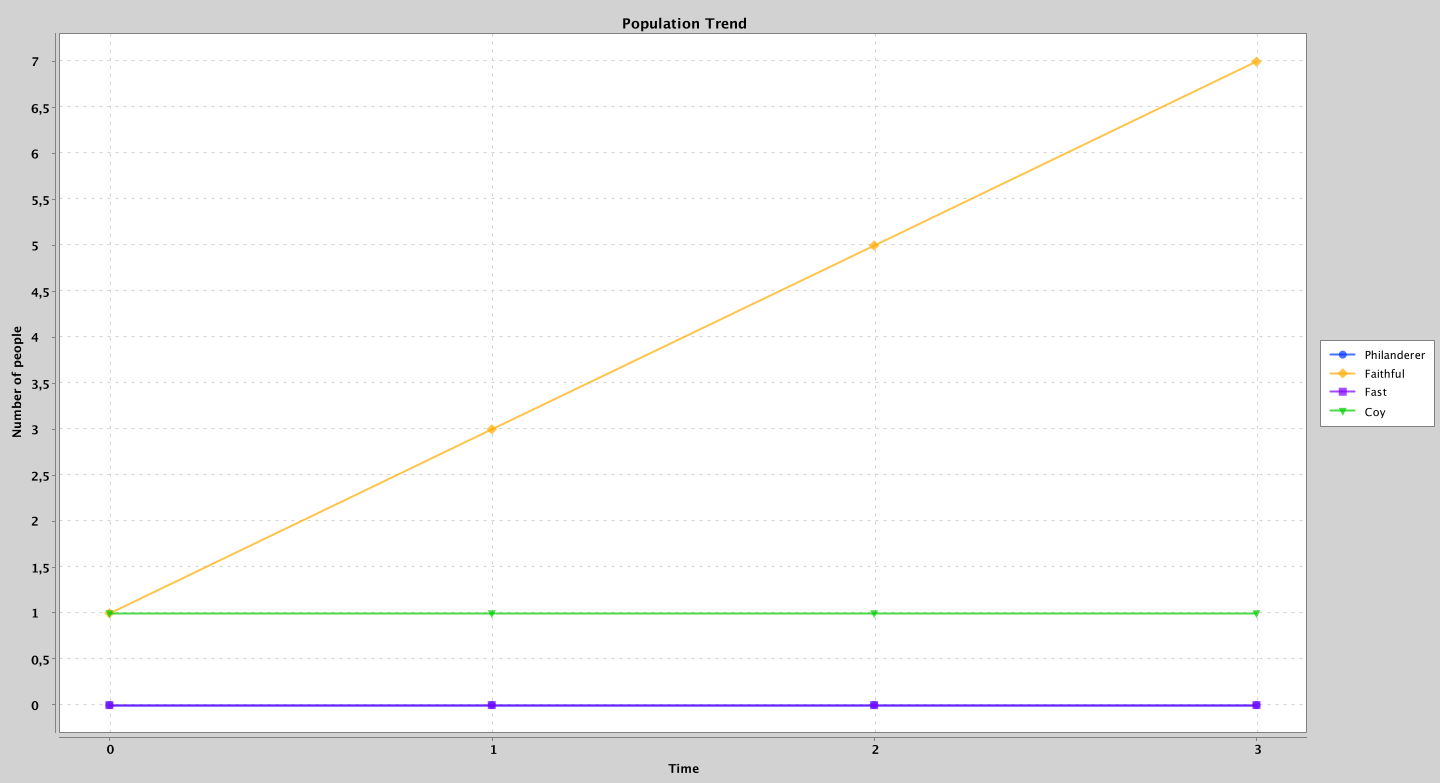
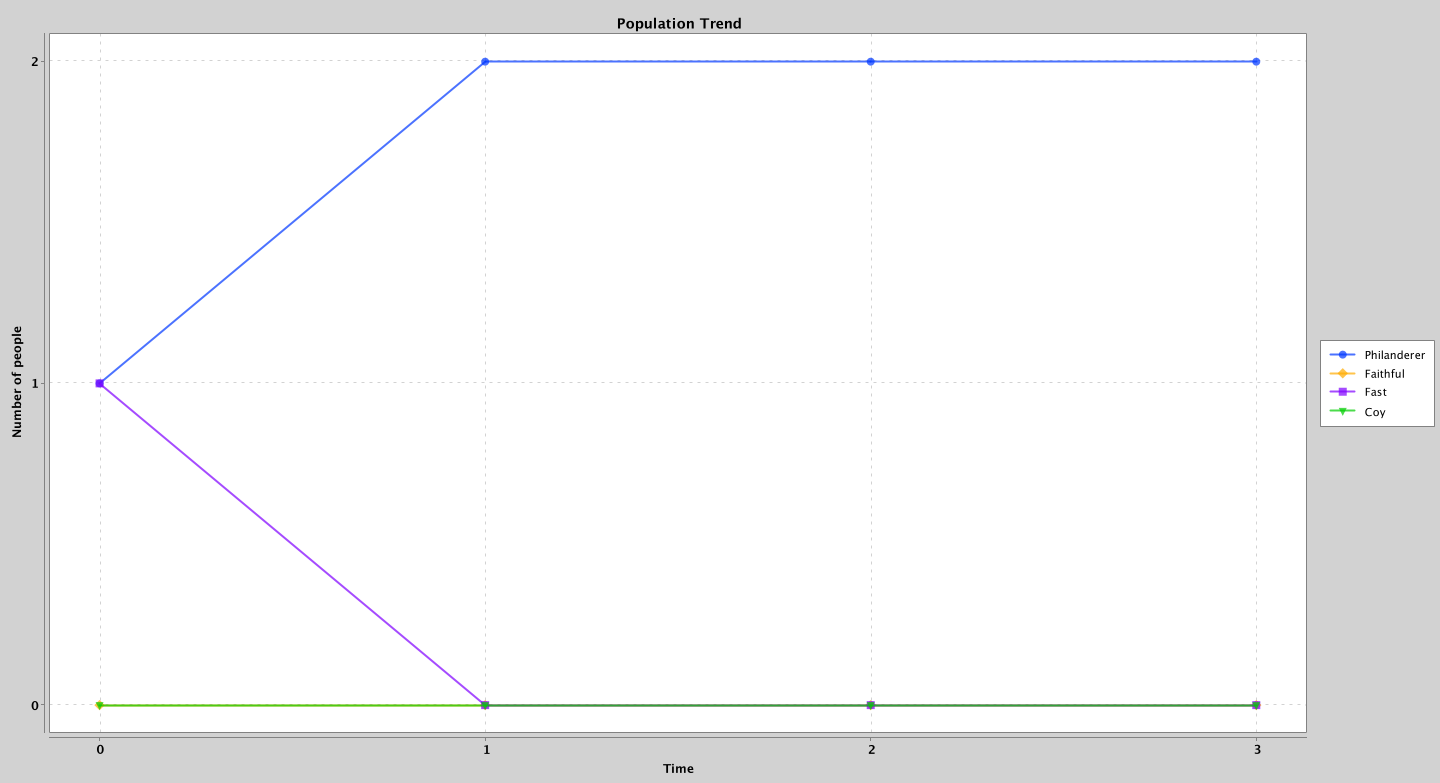
ho tolto il metodo life perchè il return funziona pure con il run

diff --git a/src/Female.java b/src/Female.java
@@ -6,11 +6,6 @@ public class Female extends Individual{
 
     @Override
     public synchronized void run() {
-        life();
-        // todo per ora muoiono solo le fast
-    }
-
-    private void life(){
         while(Main.untilEquilibriumReached) {
 
             while(Time.day) {
@@ -29,6 +24,7 @@ public class Female extends Individual{
 
             // it is night here: does nothing
         }
+        // todo per ora muoiono solo le fast
     }
 
     public synchronized void giveBirth(Male gentleman){}

diff --git a/src/Male.java b/src/Male.java
@@ -6,11 +6,6 @@ public class Male extends Individual{
 
     @Override
     public void run() {
-        life();
-        // todo per ora muoiono solo le fast
-    }
-
-    private void life(){
         while(Main.untilEquilibriumReached) {
 
             while(Time.day) {
@@ -29,5 +24,6 @@ public class Male extends Individual{
 
             // it is night here: does nothing
         }
+        // todo per ora muoiono solo le fast
     }
 }

diff --git a/src/Main.java b/src/Main.java
@@ -13,7 +13,7 @@ public class Main {
 
     public static void main(String[] args) throws InterruptedException, IOException {
 
-        Population p = new Population(0,1,1,0);
+        Population p = new Population(1,0,0,1);
         Population.printMalesFemalesTot(); // initial condition
         Population.updateGraph(0); // graph at time zero
 
